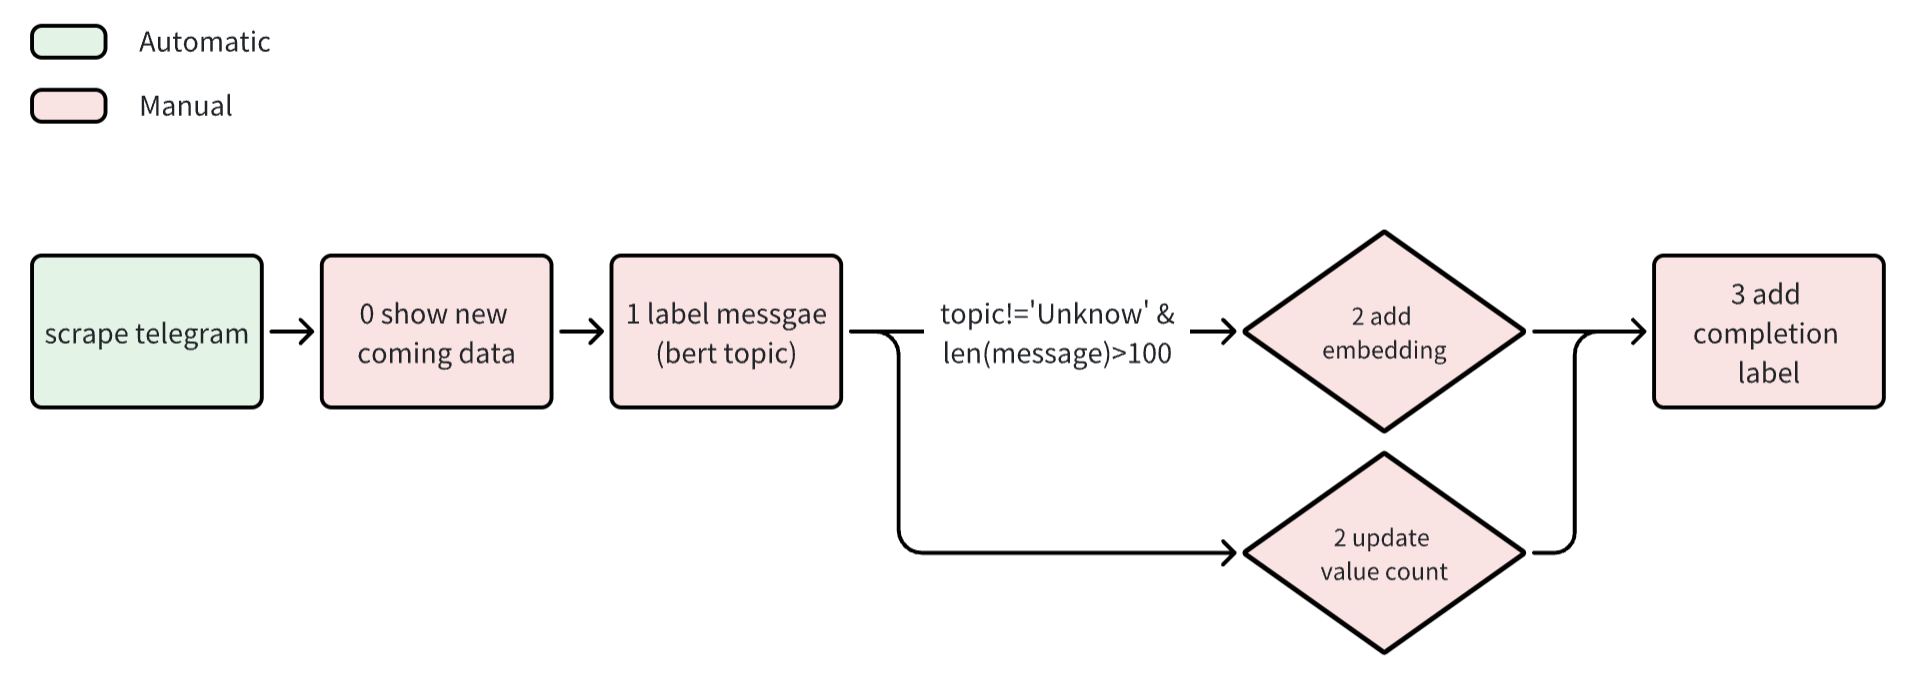
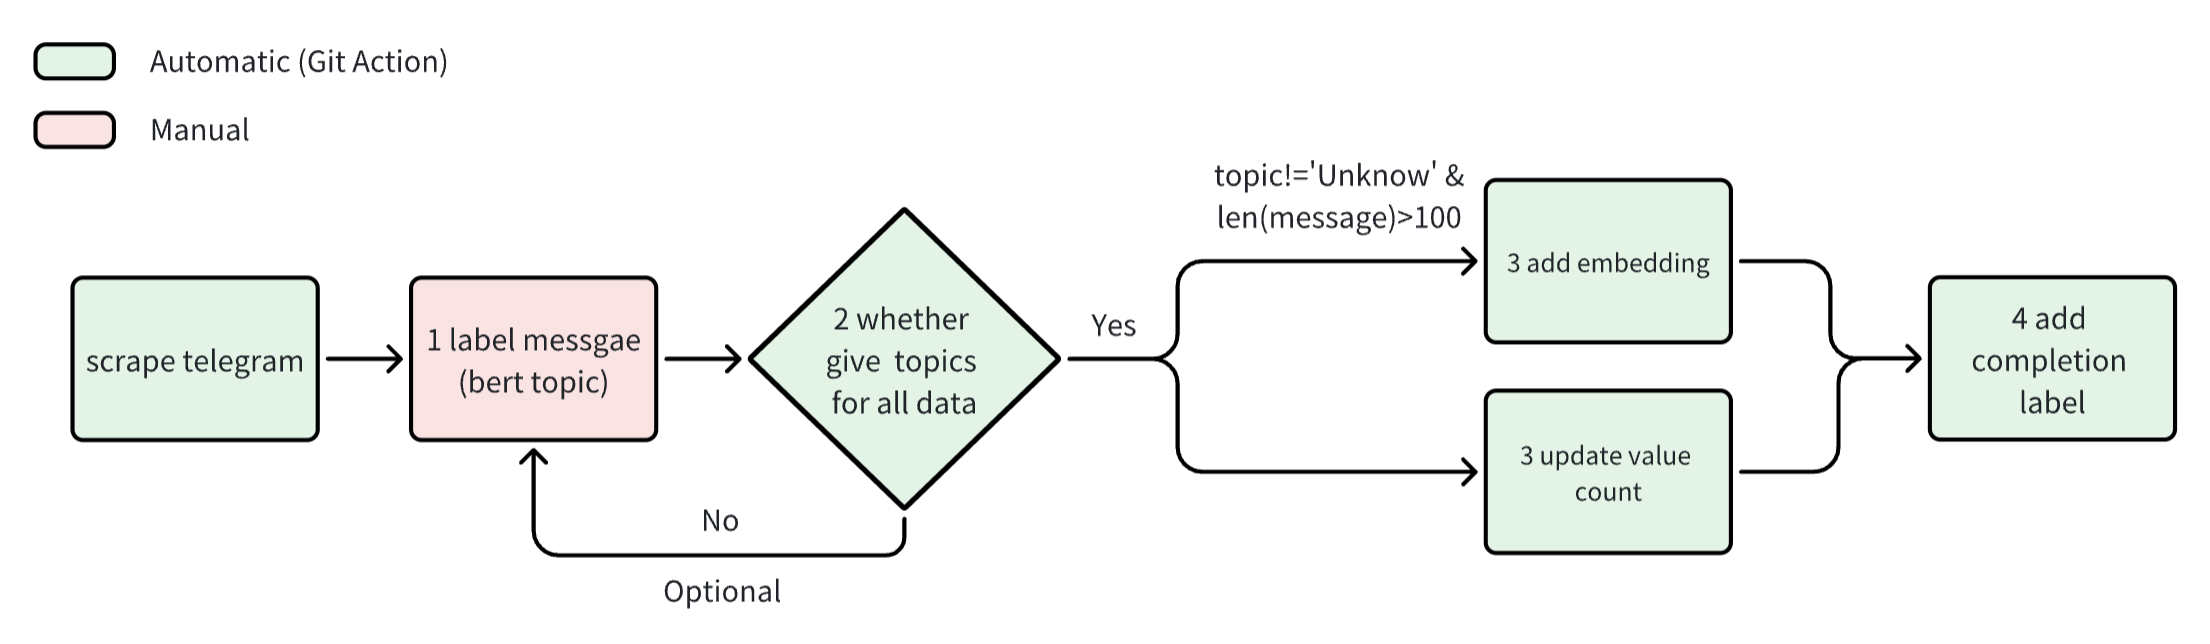
adjust pipeline order

diff --git a/src/pipeline/README.md b/src/pipeline/README.md
@@ -3,10 +3,17 @@
 ![img.png](pipeline.png)
 
 ## stage description
-| stage | logic                                                                                    | output                                               | status         |
-|-------|------------------------------------------------------------------------------------------|------------------------------------------------------|----------------|
-| 0     | check the amount of new coming messages                                                  | print the number of meesages that need to be trained | DONE           |
-| 1     | Filter new coming data using 'topicUpdateDate' field. Make bert topic prediction         | add 'predicted_class' field. String                  | TODO zhengyuan |
-| 2.1   | Filter new coming data and judge which message should have embedding. Generate embedding | add 'embedding' field. Array                         | DONE           |
-| 2.2   | use new topic results to update value count table                                        | update aggregate.TelegramCount                       | TODO zhengyuan |
-| 3     | add completion label                                                                     | add 'topicUpdateDate' field. String                  | DONE           |
+| stage | logic                                                                                | output                                                                 | status |
+|-------|--------------------------------------------------------------------------------------|------------------------------------------------------------------------|--------|
+| 1     | Filter new coming data using 'topicUpdateDate' field. Make bert topic prediction     | add 'predicted_class' field  in the scrape.telegram collection. String | DONE   |
+| 2     | check how many data don't have topic labels                                          | print the number of messages that need to topic labels                 | DONE   |
+| 3.1   | Filter new coming data and judge which message should have embedding. Generate embedding | add 'embedding' field in the scrape.telegram collection. Array         | DONE   |
+| 3.2   | use new topic results to update value count table                                    | overwrite 'aggregate.TelegramCount' collection                         | DONE   |
+| 4     | add completion label                                                                 | add 'topicUpdateDate' field in the scrape.telegram collection. String  | DONE   |
+
+The pipeline relies on the following fields and relevant logic.     
+- predicted_class: all messages have this field. Give 'Unknown' label if the topic is unclear.    
+- embedding: only messages which meet certain requirements have this field.    
+- topicUpdateDate: when finish topic prediction and embedding generation, add the completion label to each message in form of 'yyyy-mm-dd'   
+
+Don't change the logic of these fields!!! Or the pipeline has the possibility to run incorrectly. 
